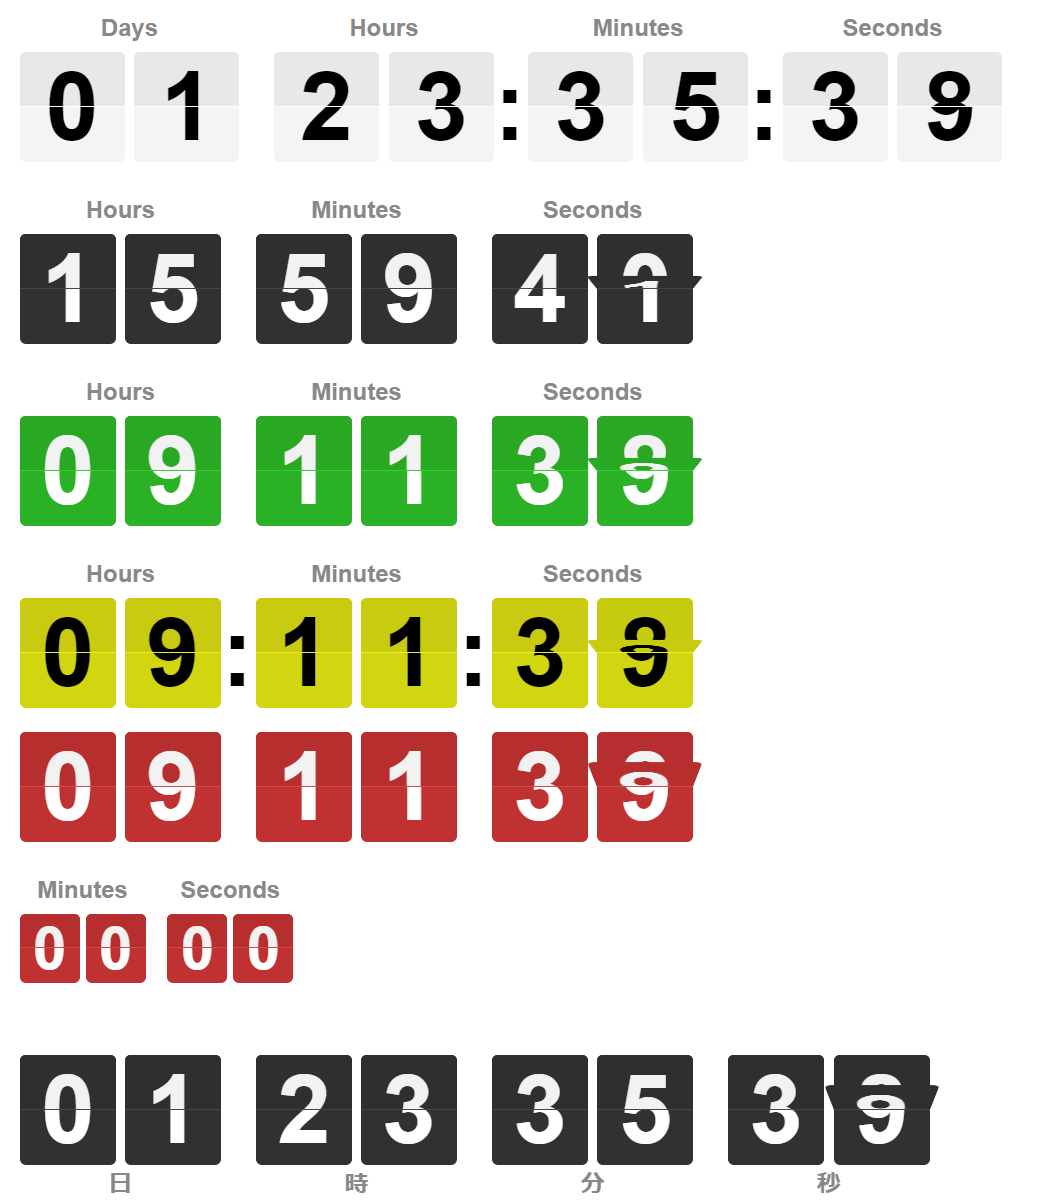
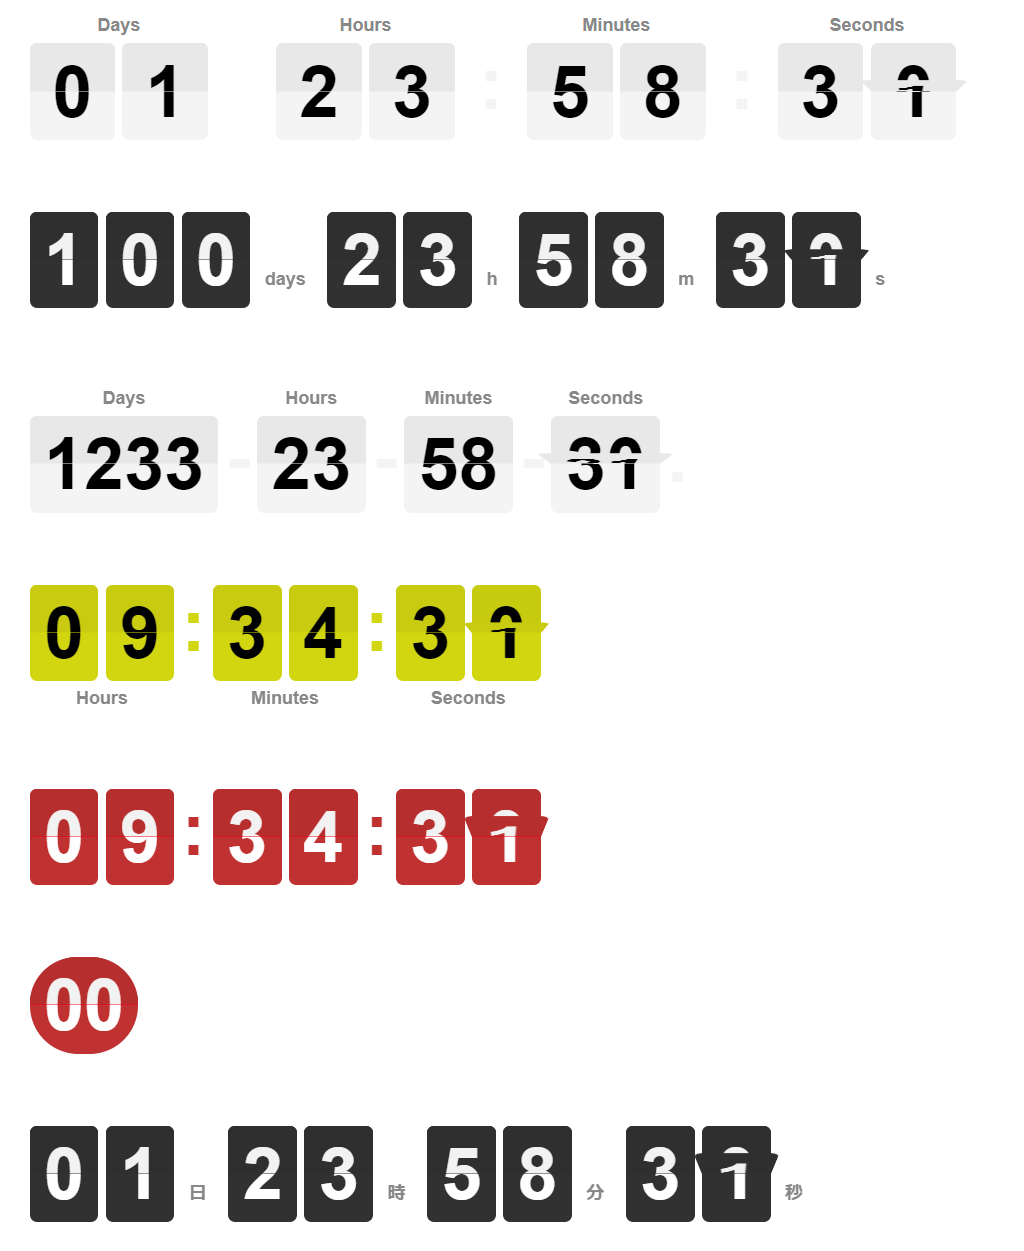
Documentation revised

diff --git a/README.md b/README.md
@@ -1,13 +1,12 @@
-This project a forked project from [https://github.com/PButcher/flipdown](https://github.com/PButcher/flipdown)
+This project a forked project from [https://github.com/PButcher/flipdown](https://github.com/PButcher/flipdown) The original project was created by [PButcher](https://github.com/PButcher/flipdown).
 
 # FlipDown.js Jake's edition 2024
 
 ⏰ A lightweight and performant flip styled countdown clock.
 
-The original project was created by [PButcher](https://github.com/PButcher/flipdown).
-I rewrote the source code in TypeScript and LESS css for some extensions which are listed in the feature list.
+I rewrote the source code in TypeScript and LESS CSS for some extensions which are listed in the feature list.
 
-<span style="text-align:center;display:block;width:100%;"><img src="example/images/screenshot.png" style="width:75%" title="Example of FlipDown" style="width: 500px;text-align:center"/></span>
+<div style="text-align:center;"><img src="example/images/screenshot.png" title="Example of FlipDown" style="max-width: 100%;text-align:center"/></div>
 
 
 ## Features
@@ -20,11 +19,10 @@ I rewrote the source code in TypeScript and LESS css for some extensions which a
 
 ### In addition to the original version, Jake's edition features the following
 
-- more Responsive - restructured using Flexbox css so the size fits and stretches along the drawing container.
-- more digits on **Days** rotor.
+- more Responsive - restructured using CSS Flexbox so the size fits and stretches along the drawing container.
+- more digits on **Days** rotor. Grouping digits in one rotor.
 - auto hide preceding zeros.
-- on/off heading labels.
-- more lightweight  &lt; 11KB
+- on/off heading labels and locations selectable.
 
 Respecting the original edition of FlipDown, usage of Javascript class and HTML structure are preserved as much as possible.
 
@@ -32,19 +30,29 @@ Respecting the original edition of FlipDown, usage of Javascript class and HTML 
 
 Example live at: https://jakejp.github.io/flipdown/example/
 
-## Basic Usage
+## Get started
 
-For basic usage, FlipDown takes a unix timestamp (in seconds) as an argument.
+#### 1. Include the [CSS and JS](https://github.com/JakeJP/flipdown/tree/master/dist) in `<head>` and include the following line in your HTML.
+
+```html
+<link rel="stylesheet" type="text/css" href="css/flipdown/flipdown.css">
+<script type="text/javascript" src="js/flipdown/flipdown.js"></script>
+```
+
+```html
+<div id="flipdown" class="flipdown"></div>
+```
+
+#### 2. insert a bit of Javascript. FlipDown takes a Date or unix timestamp (in seconds) to countdown to as an argument.
 
 ```javascript
 new FlipDown(1538137672).start();
 ```
 
-Include the [CSS and JS](https://github.com/PButcher/flipdown/tree/master/dist) in `<head>` and include the following line in your HTML.
-
-```html
-<div id="flipdown" class="flipdown"></div>
+```javascript
+new FlipDown(new DateTime(2024, 12,25)).start();
 ```
+
 
 See a full example [here](https://github.com/JakeJP/flipdown/tree/master/example).
 
@@ -72,13 +80,7 @@ FlipDown comes with 5 themes as predfined:
 - yellow
 - red
 
-To set the theme, you can supply the `theme` property in the `opt` object in the constructor with the theme name as a string:
-
-```javascript
-{
-  theme: "light";
-}
-```
+To set the theme, you can supply the `theme` property in the `opt` object in the constructor with the theme name as a string.
 
 For example, to instantiate FlipDown using the light theme instead:
 
@@ -90,30 +92,37 @@ new FlipDown(1538137672, {
 
 colors and other styles can be customized as described in the next section.
 
-### Custom CSS Styles
+### Custom stylings
 
-Setting styles with CSS variables on the flipdown element, more customization can be done.
+#### 1. `class` attribute of FlipDown element
 
-- `color` defines font color which is usually for digits.
-- `font-size` defines font size of digits.
-- `--flip-color` defines theme color of flips.
+`flipdown` is a must to set.
+
+`responsive` is an option to make the containing element stretchable using Flexbox's flex-grow.
+
+```html
+<div class='flipdown responsible'></div>
+```
+
+#### 2. `style` attribute of FlipDown element
+
+Some styling can be done with style attribute on the flipdown element.
+
+- `color` `font-family` `font-size` defines font of text elements.
+- `--flip-color` defines theme color of flips (direct option besides `theme`).
 - `--corner-radius` for corners of flips.
 
 ```html
   <div class="flipdown" style="color: black; --flip-color: red; --corner-radius: 1em"></div>
 ```
 
-To customize the each digit, apply style using  `.flipdown .digit` selector.
+#### 3. Option arguments in `new FlipDown(... { options })`
 
-```css
-  .flipdown .digit {
-    padding: 0.6em;
-  }
-```
+##### `headings` and `headingsAt`
 
-## Headings
+specifies heading visibility or text. Pass 4 element array to customize day, hour, min, sec part of heading labels. `false` to hide.
 
-You can add your own rotor group headings by passing an array as part of the `opt` object. Bear in mind this won't change the functionality of the rotors (eg: the 'days' rotor won't magically start counting months because you passed it 'Months' as a heading).
+`headingAt` can be one of `top` , `bottom`, `left` or `right` to specify where the heading label should sit.
 
 Suggested use is for i18n. Usage as follows:
 
@@ -124,14 +133,49 @@ new FlipDown(1538137672, {
 }).start();
 ```
 
-Note that headings will default to English if not provided: `["Days", "Hours", "Minutes", "Seconds"]`
-
-Header labels can be turned off by passing null or false to `headings`.
-
-`headingsAt` option specifies where the heading labels locate, `top` , `bottom`, `left` or `right`.
+Note that headings will default to English if not provided: `["Days", "Hours", "Minutes", "Seconds"]` and `headingsAt` `top`
 
 ```javascript
-new FlipDown(1538137672, { headings: nufalsell }).start();
+new FlipDown(1538137672, { headings: false }).start();
+```
+##### `rotor`
+
+`1` to group digits for each D H M S instead of assigning a rotor to each number.
+
+##### `tick`
+
+`tick` specifies a callback function, which is called every time FlipDown flips.
+
+##### `ended`
+
+`ended` is called when FlipDown reaches the end of countdown. (Same time as IfEnded )
+
+```javascript
+new FlipDown(1538137672, {
+  headings: ['D', 'H', 'M', 'S'],
+  headingsAt: 'right',
+  rotor: 1,
+  tick: function(){
+
+  },
+  ended: function(){
+
+  }
+}).start();
+```
+
+#### 4. Further styling options ( more direct )
+
+Some of sub elements in FlipDown can be stylized by using actual CSS selector.
+
+- `.flipdown .delimiter` to customize the delimiter text which is usually `:` between digit groups.
+- `.flipdown .rotor-group-heading` to customize the heading labels which are usually `Days` `Hours`...
+- `.flipdown .digit` to select text element in each rotor element for adjusting font or padding.
+
+```css
+  .flipdown .digit {
+    padding: 0.6em;
+  }
 ```
 
 Heading text can be styled with `.flipdown .rotor-group-heading` selector.
@@ -142,36 +186,9 @@ Heading text can be styled with `.flipdown .rotor-group-heading` selector.
   }
 ```
 
-### Reponsive to stretch
-
-```html
-<div id="flipdown" class="flipdown responsive"></div>
-```
-
-## Callbacks
-
-### tick
-
-`tick` specifies a callback function, which is called every time FlipDown flips.
-
-### ended
-
-`ended` is called when FlipDown reaches the end of countdown. (Same as IfEnded )
-
-```javascript
-new FlipDown(1538137672, {
-  tick: function(){
-
-  },
-  ended: function(){
-
-  }
-}).start();
-```
-
 ## API
 
-### `FlipDown.prototype.constructor(uts, [el], [opts])`
+### `FlipDown(uts, [el], [opts])`
 
 Create a new FlipDown instance.
 
@@ -200,15 +217,15 @@ Optionally specify additional configuration settings. Currently supported settin
 - [`theme`](#Themes)
 - [`headings`](#Headings)
 - `headingsAt` top | bottom | left | right
-- `rotor` `1` to group all digits in one rotor.
+- `rotor` `1` to group digits in one rotor.
 - [`tick`](#tick)
 - [`ended`](#ended)
 
-### `FlipDown.prototype.start()`
+### `FlipDown.start()`
 
 Start the countdown.
 
-### `FlipDown.prototype.ifEnded(callback)`
+### `FlipDown.ifEnded(callback)`
 
 Call a function once the countdown has ended.
 
@@ -233,9 +250,9 @@ var flipdown = new FlipDown(1538137672)
     console.log("The countdown has ended!");
   });
 ```
-## How to build
+## How to build js and css
 
-Build configuration is not included in the project. But the original source is just 2 files:
+Build configuration is not included in the project. But the original code is just 2 files:
 
 - **flipdown.ts** - TypeScript source code should be compiled in `.js` then `.min.js` by minifier
 - **flipdown.less** - LESS CSS file should be compiled in `.css` and `.min.css`  by minifier
